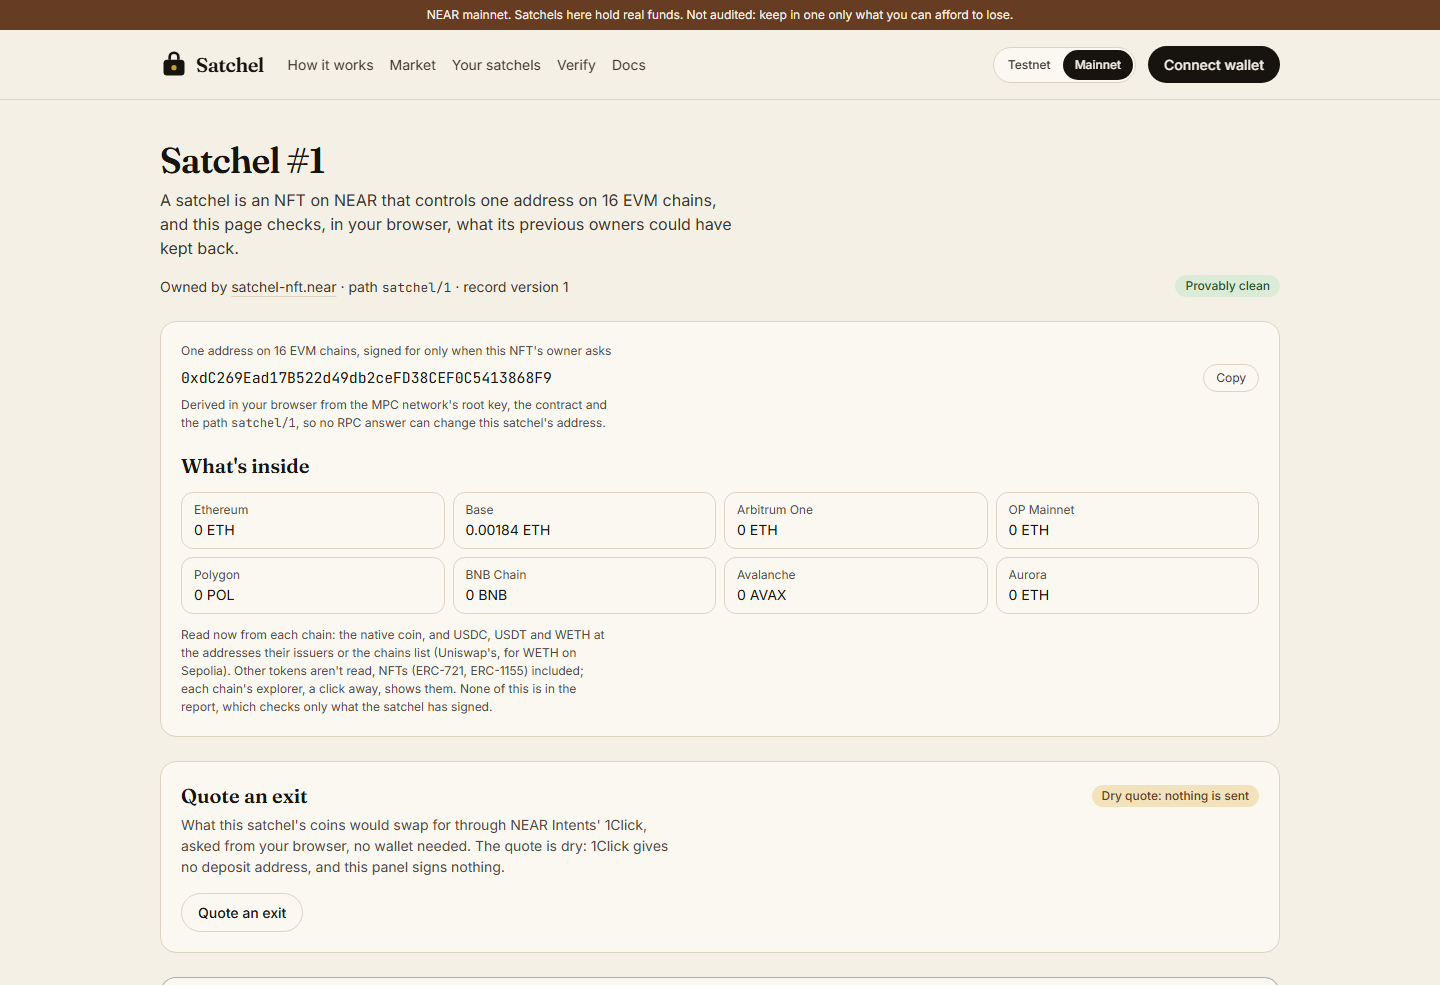
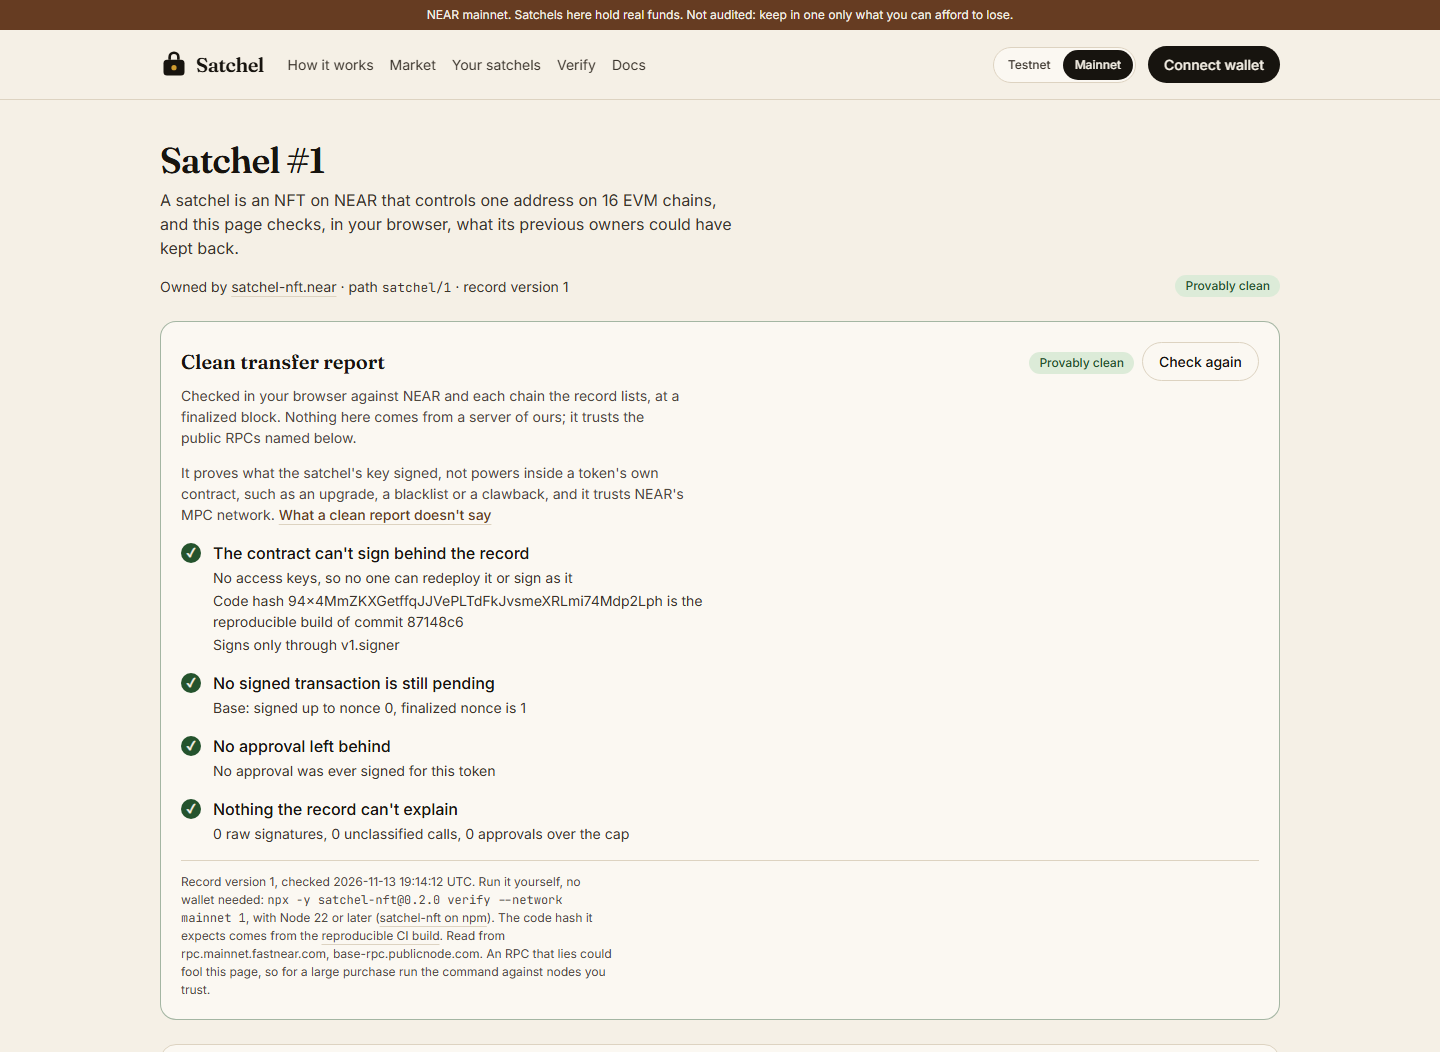
fix(web): self-sale beside mainnet #3 on /verify, satchel page shots retaken
- Mainnet #3's demo pick on /verify (and llms.txt) now says its sale was a
  self-sale between two of the builder's accounts, not a market price; a test
  holds it.
- The README's two shots of a satchel's page and the quick start's figure are
  taken again in the new order, title then report: screenshots.mjs crops to
  #report. Their alt text and caption describe what the pictures show.

diff --git a/web/src/lib/showcase.test.ts b/web/src/lib/showcase.test.ts
@@ -362,6 +362,12 @@ describe("the demo satchels", () => {
     expect(ids("testnet")).toEqual(["1", "3", "4", "5", "6", "7", "8", "9"]);
   });
 
+  it("says next to mainnet #3's sale that it was a self-sale", () => {
+    const story = DEMO_SATCHELS.find((d) => d.network === "mainnet" && d.tokenId === MAINNET_SALE.tokenId)?.story ?? "";
+    expect(story).toContain(`Sold for ${MAINNET_SALE.price} NEAR`);
+    expect(story).toContain("a self-sale between two of the builder's accounts, not a market price");
+  });
+
   it("lists exactly the satchels the app's guard covers, but testnet #2, which is retired", () => {
     for (const net of ["testnet", "mainnet"] as const) {
       const listed = DEMO_SATCHELS.filter((d) => d.network === net).map((d) => d.tokenId);

diff --git a/web/src/lib/showcase.ts b/web/src/lib/showcase.ts
@@ -357,7 +357,7 @@ export const DEMO_SATCHELS: readonly DemoSatchel[] = [
   {
     network: "mainnet",
     tokenId: MAINNET_SALE.tokenId,
-    story: `Sold for ${MAINNET_SALE.price} NEAR to a second account; the old owner's next sign_evm was refused`,
+    story: `Sold for ${MAINNET_SALE.price} NEAR in a self-sale between two of the builder's accounts, not a market price; the old owner's next sign_evm was refused`,
     pick: true,
   },
 ];

diff --git a/README.md b/README.md
@@ -1392,11 +1392,11 @@ no database and no session.
 
 <table>
 <tr>
-<td width="50%"><img src="docs/assets/readme/app-report-5.png" alt="Satchel #5's page on testnet: its address 0x81149BF1C907579A150e9AB882E951B648853dA3 with 0 balances on the 8 testnets, and its clean transfer report reading Not provable because a transaction signed at nonce 0 on Sepolia may still be pending; the other three checks pass."></td>
-<td width="50%"><img src="docs/assets/readme/app-mainnet-satchel-1.png" alt="Satchel #1's page on mainnet: owned by satchel-nft.near, path satchel/1, record version 1. Its address 0xdC269Ead17B522d49db2ceFD38CEF0C5413868F9 holds 0.00184 ETH on Base and 0 on the other seven mainnets. Its clean transfer report reads Provably clean: no access keys, the reproducible build of commit 87148c6, signs only through v1.signer; Base signed up to nonce 0, finalized nonce is 1; no approval was ever signed; 0 raw signatures, 0 unclassified calls."></td>
+<td width="50%"><img src="docs/assets/readme/app-report-5.png" alt="Satchel #5's page on testnet: owned by satchel-nft.testnet, path satchel/5, record version 1, and right under the title its clean transfer report, reading Not provable because a transaction signed at nonce 0 on Sepolia may still be pending; the other three checks pass."></td>
+<td width="50%"><img src="docs/assets/readme/app-mainnet-satchel-1.png" alt="Satchel #1's page on mainnet: owned by satchel-nft.near, path satchel/1, record version 1, and right under the title its clean transfer report, reading Provably clean: no access keys, the reproducible build of commit 87148c6, signs only through v1.signer; Base signed up to nonce 0, finalized nonce is 1; no approval was ever signed; 0 raw signatures, 0 unclassified calls."></td>
 </tr>
 <tr>
-<td><sub>A satchel's page: its address on the network's 8 chains and its report, read live. Satchel #5 hides a signed send.</sub></td>
+<td><sub>A satchel's page: its report, read live, right under the title. Satchel #5 hides a signed send.</sub></td>
 <td><sub>Satchel #1 on mainnet after its one send on Base: the same report, read live, <code>PROVABLY CLEAN</code>.</sub></td>
 </tr>
 </table>

diff --git a/CHANGELOG.md b/CHANGELOG.md
@@ -580,13 +580,15 @@ All notable changes to Satchel. The format follows [Keep a Changelog](https://ke
 ### Changed
 
 - A satchel's page puts its verdict first: the clean transfer report sits right under the title,
-  with Make it clean under it when the report isn't clean, then the address and What's inside,
-  Quote an exit, the sale panels, History and Received, each as before; the README's pages table
-  and the buy guide say so. On a phone the verdict is on the first or second screen. The report's
-  "checked" time and the holder room's block time and signature window are written in UTC, as the
-  deed and the history write theirs: in the viewer's own time zone, beside a UTC time, a check
-  made today could read like the next day's. `/verify` offers testnet #8, the DAO's satchel, and
-  #9, made clean from its page, among its demo picks.
+  with Make it clean under it when the report isn't clean, then the address and What's inside, Quote
+  an exit, the sale panels, History and Received, each as before; the README's pages table and the
+  buy guide say so, and the README's two shots of a satchel's page and the quick start's are taken
+  again (title and report; `screenshots.mjs` crops to `#report`). On a phone the verdict is on the
+  first or second screen. The report's "checked" time and the holder room's block time and signature
+  window are written in UTC, as the deed and the history write theirs: in the viewer's own time
+  zone, beside a UTC time, a check made today could read like the next day's. `/verify` offers
+  testnet #8, the DAO's satchel, and #9, made clean from its page, among its demo picks, and mainnet
+  #3's line there says its sale was a self-sale between two of the builder's accounts.
 - `check-claims.mjs` reads the way `check-dao.mjs` does: a read a node answers with HTTP 408, 429
   or 5xx, or whose connection fails, is sent up to 3 more times with backoff, and with
   `NEAR_ARCHIVAL_RPC` unset an archival read FastNEAR's node doesn't answer goes to NEAR's own,
